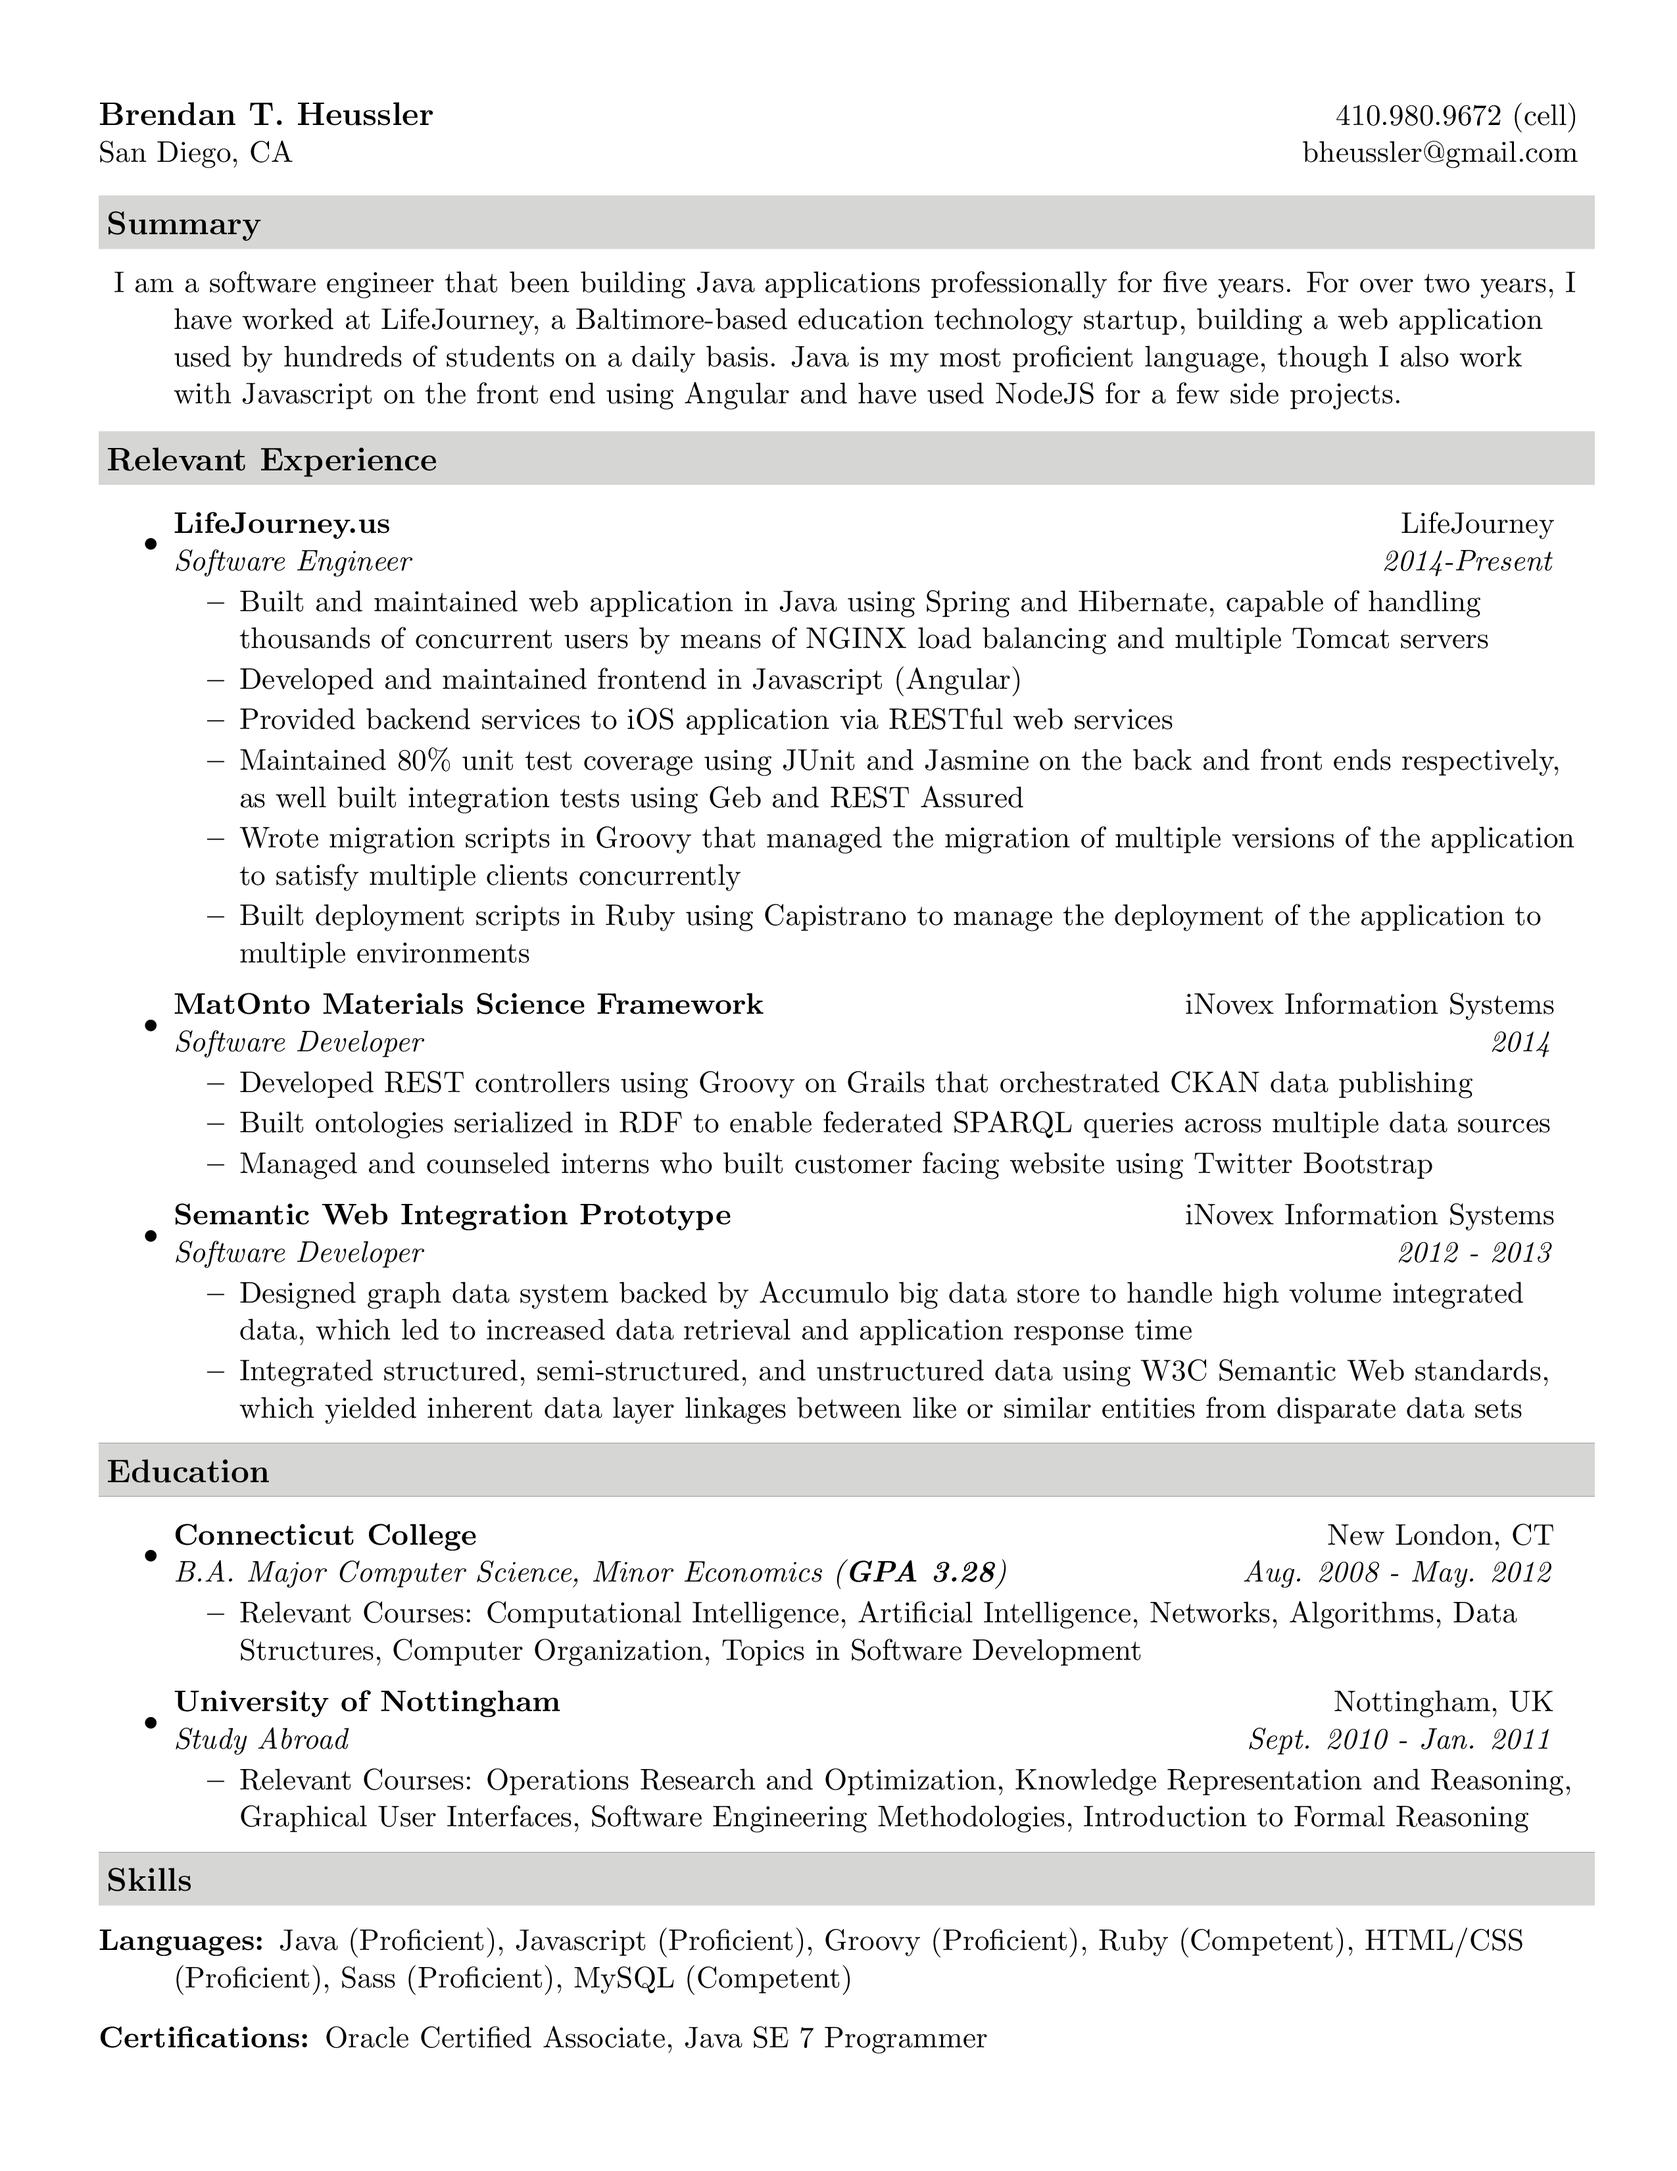
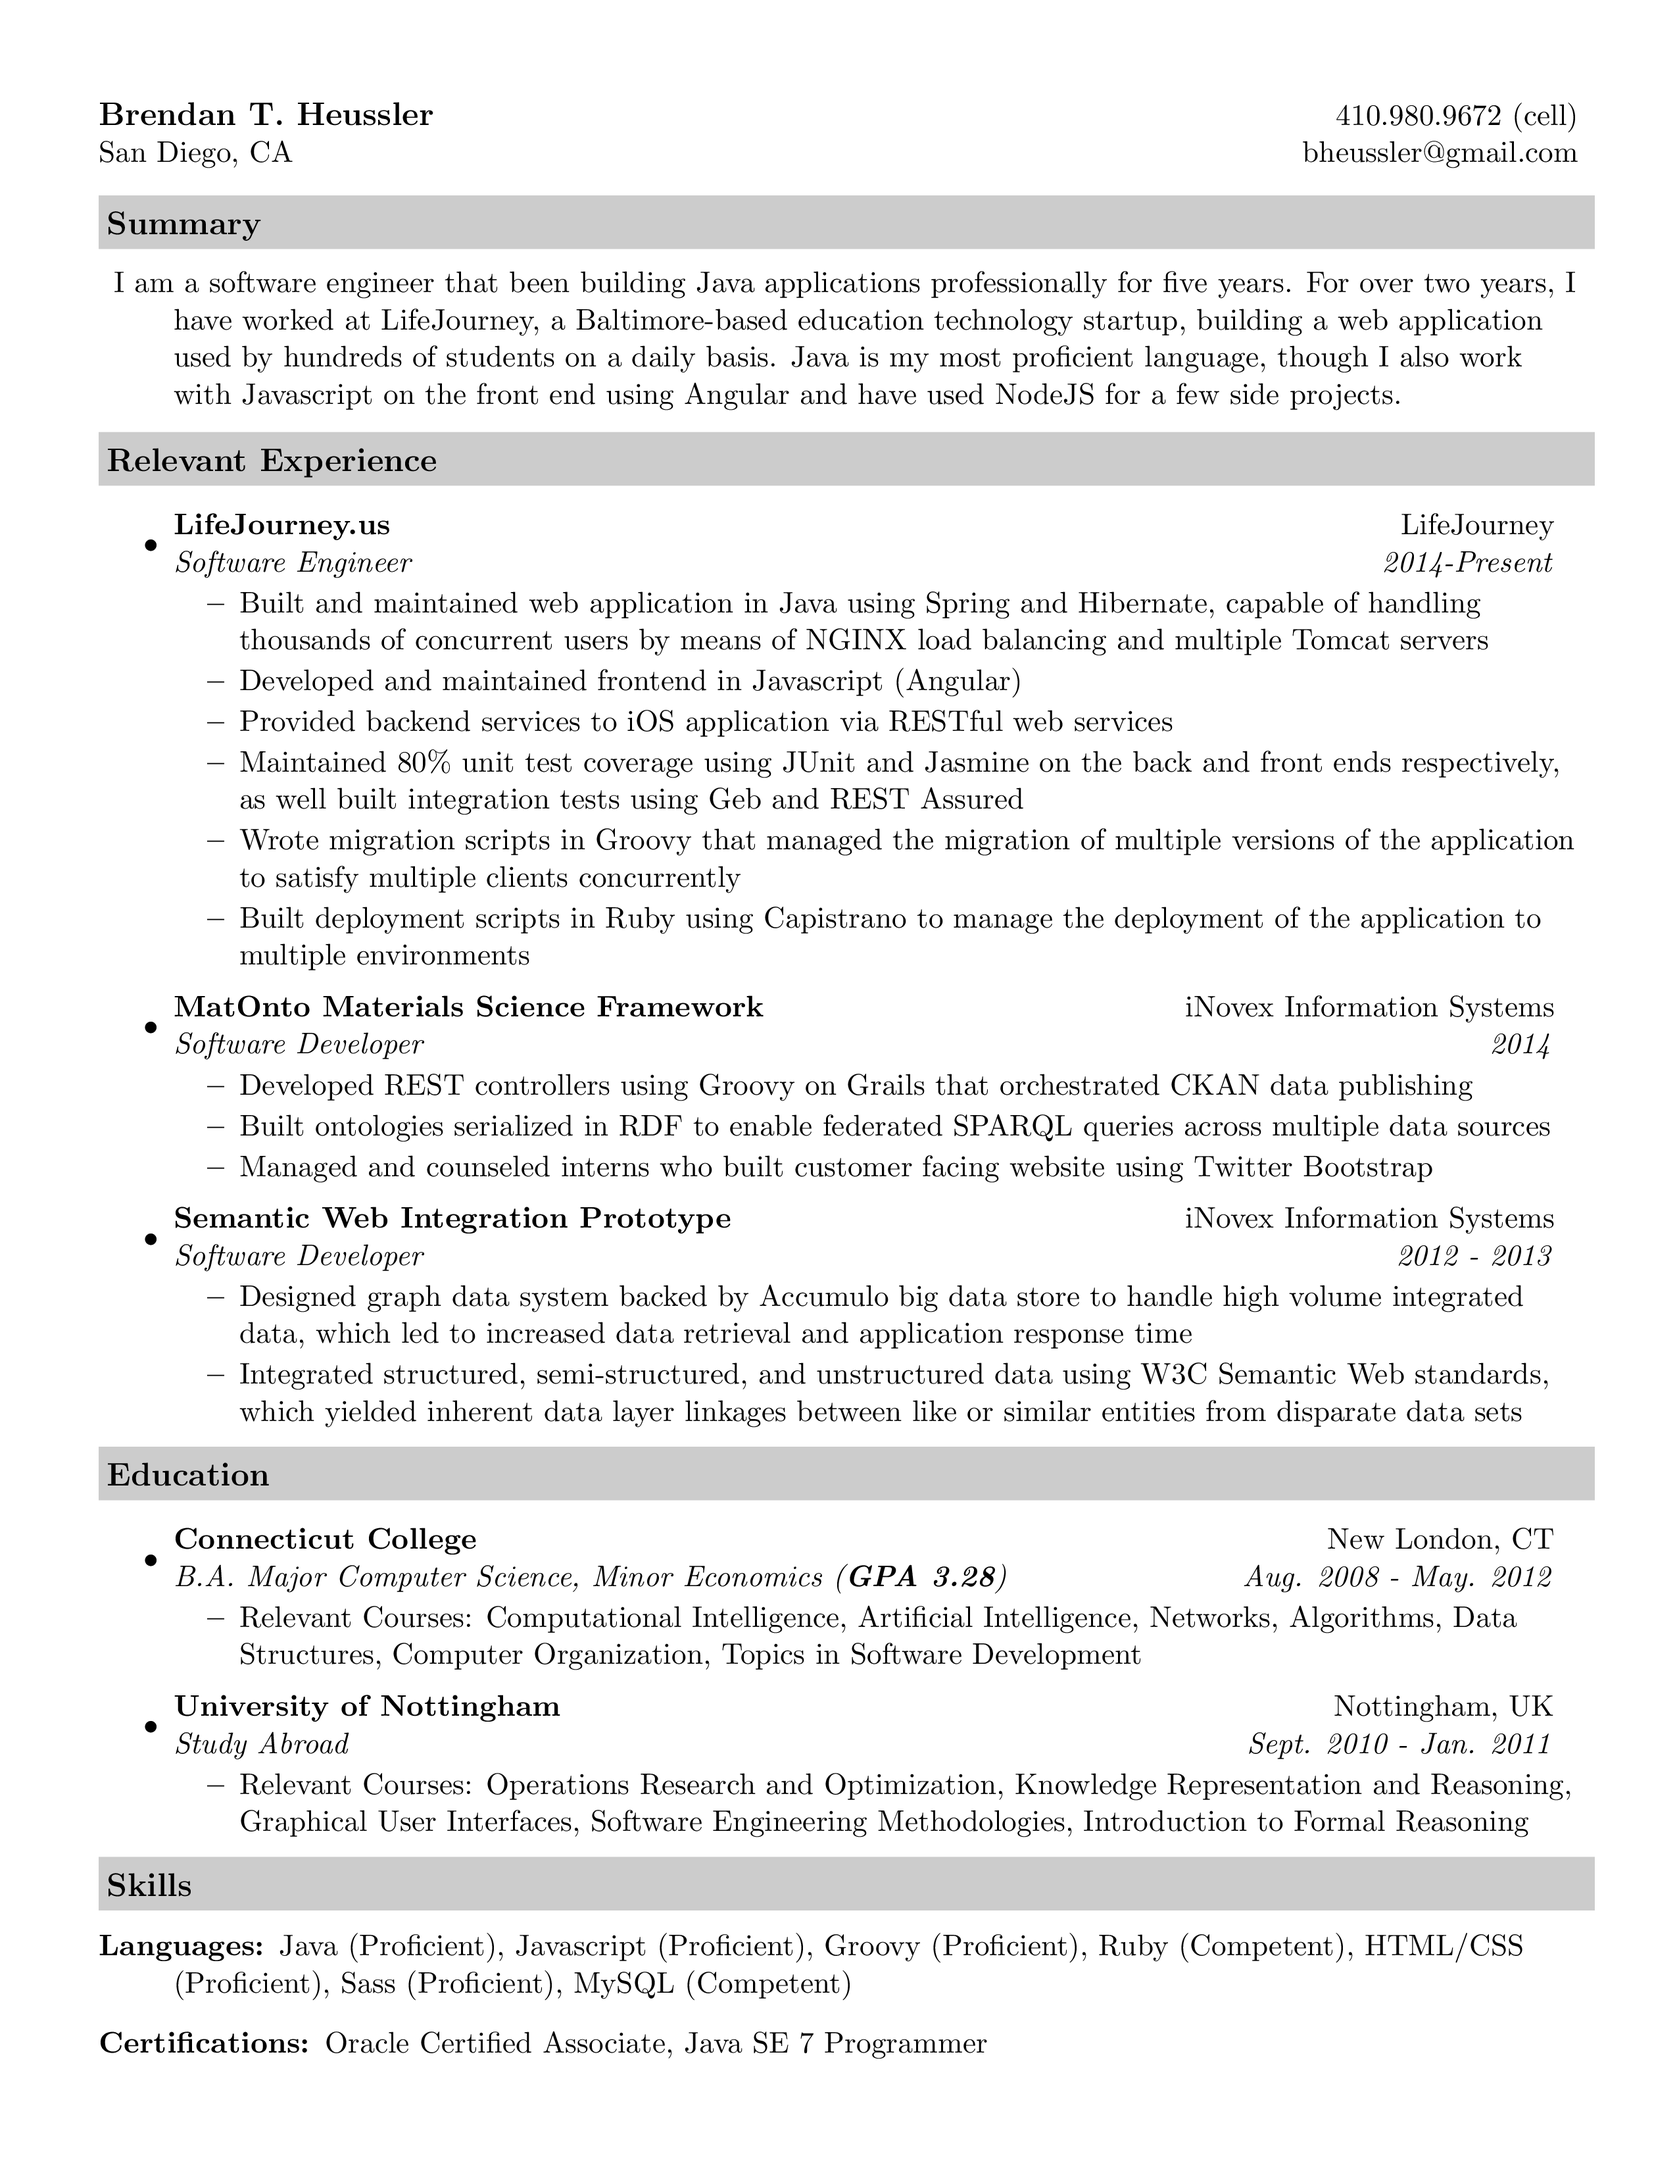
Dust of the old resume

diff --git a/Brendan_Heussler_Resume.tex b/Brendan_Heussler_Resume.tex
@@ -9,6 +9,7 @@
 \documentclass[letterpaper,11pt]{article}
 
 %-----------------------------------------------------------
+\usepackage{pagecolor,lipsum}
 \usepackage[empty]{fullpage}
 \usepackage{color}
 \definecolor{mygrey}{gray}{0.80}
@@ -36,6 +37,7 @@
 
 
 \begin{document}
+\pagecolor{white}
 
 \begin{tabular*}{7.5in}{l@{\extracolsep{\fill}}r}
 	\textbf{\large Brendan T. Heussler}  & 410.980.9672 (cell)\\
